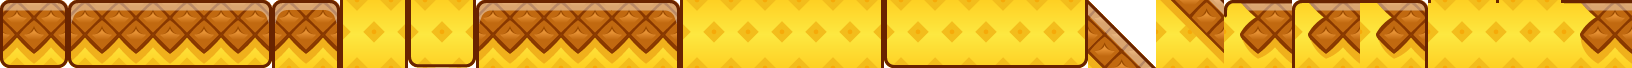
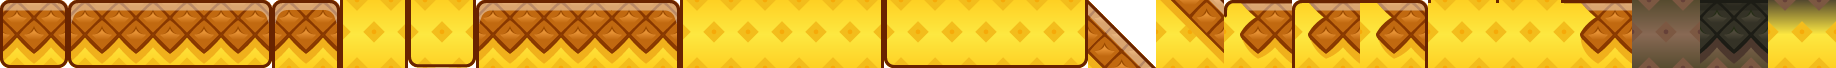
Grotte con gli sprite 42-44 dell'utente; tolto pixel.webp

diff --git a/game.js b/game.js
@@ -40,18 +40,14 @@ const FONDI={};[['clouds','assets/fondi/clouds.webp'],['color_hills','assets/fon
 const SUONI={"magic":'assets/suoni/magic.mp3',"coin":'assets/suoni/coin.mp3',"jump":'assets/suoni/jump.mp3',"hurt":'assets/suoni/hurt.mp3',"disappear":'assets/suoni/disappear.mp3',"bump":'assets/suoni/bump.mp3',"throw":'assets/suoni/throw.mp3',"jump-high":'assets/suoni/jump-high.mp3',"gem":'assets/suoni/gem.mp3'};
 const KIT2=new Image();KIT2.src='assets/kit2.webp'; /* altri pezzi del kit: pulsante, lucchetto, peso, mattoni, blocco che crolla */
 Object.assign(KMAP,{"switch_blue":[2,2,2],"switch_blue_pressed":[102,2,2],"lock_blue":[202,2,2],"weight":[302,2,2],"bricks_brown":[402,2,2],"block_idle":[502,2,2],"block_fall":[602,2,2],"block_rest":[702,2,2]});
-/* l'erba del mondo 1 viene dal Pixel Platformer e la terra della grotta dal kit farm: caselle da 18 */
-const PIXEL=new Image();PIXEL.src='assets/pixel.webp';
+/* nomi delle caselle del terreno: indici nell'atlante del paesaggio */
 const PIX={block:0,horizontal_left:1,horizontal_middle:2,horizontal_right:3,vertical_top:4,vertical_middle:5,vertical_bottom:6,block_top_left:7,block_top:8,block_top_right:9,block_left:10,block_center:11,block_right:12,block_bottom_left:13,block_bottom:14,block_bottom_right:15,cloud_left:1,cloud_middle:2,cloud_right:3};
-const PX_PAV=16,PX_FONDO=17;
-function px(c,i,x,y,w,h,capo,meta){if(!PIXEL.complete)return;const s=c.imageSmoothingEnabled;c.imageSmoothingEnabled=false;
- if(capo){c.save();c.translate(x,y+h);c.scale(1,-1);c.drawImage(PIXEL,i*18,0,18,meta?9:18,0,0,w,meta?h/2:h);c.restore();}else c.drawImage(PIXEL,i*18,0,18,18,x,y,w,h);c.imageSmoothingEnabled=s;}
 /* il terreno del mondo 1 è il paesaggio ananas dell'utente: caselle da 68 nello stesso ordine di PIX, l'ultima è la rampa che scende */
 const ERBANAN=new Image();ERBANAN.src='assets/erbananas.webp'; /* il ciuffo d'ananas dell'utente al posto del cespuglio nel mondo 1 */
 /* in grandezza vera, alla scala delle caselle da 68 del paesaggio: così il bordo scuro è spesso come quello del pavimento */
 function ciuffo(c,x,y,ts){const w=ERBANAN.width*ts/68,h=ERBANAN.height*ts/68;if(w)c.drawImage(ERBANAN,x-w/2,y-h,w,h);}
-const PAES=new Image();PAES.src='assets/paesaggio.webp';const PAES_RAMPA=16,PAES_SOTTO=17,PAES_BORDO={m:18,g:19,v:20},PAES_UNIONE=21,PAES_COLONNA=22,PAES_LATO_COLONNA=23; /* 17: la terra sotto una rampa a scalini, con la buccia della rampa dopo nell'angolo; 18-20: dove il piano finisce a sinistra, ai piedi di un muro più alto (m), con un gradino in giù (g) o sul vuoto (v); a destra si capovolgono, il bordo sul vuoto al contrario; 21: il muro accanto al bordo sul vuoto, dove le due linee si uniscono; 22: sotto una colonna, con il piano che arriva dai due lati; 23: il piano ai lati di quella colonna, senza l'uncino */
-function paes(c,i,x,y,w,h,flip){const s=c.imageSmoothingEnabled;c.imageSmoothingEnabled=false;if(flip){c.save();c.translate(x+w,y);c.scale(-1,1);c.drawImage(PAES,i*68,0,68,68,0,0,w,h);c.restore();}else c.drawImage(PAES,i*68,0,68,68,x,y,w,h);c.imageSmoothingEnabled=s;}
+const PAES=new Image();PAES.src='assets/paesaggio.webp';const PAES_RAMPA=16,PAES_SOTTO=17,PAES_BORDO={m:18,g:19,v:20},PAES_UNIONE=21,PAES_COLONNA=22,PAES_LATO_COLONNA=23,PAES_GROTTA={fondo:24,pav:25,base:26}; /* 17: la terra sotto una rampa a scalini, con la buccia della rampa dopo nell'angolo; 18-20: dove il piano finisce a sinistra, ai piedi di un muro più alto (m), con un gradino in giù (g) o sul vuoto (v); a destra si capovolgono, il bordo sul vuoto al contrario; 21: il muro accanto al bordo sul vuoto, dove le due linee si uniscono; 22: sotto una colonna, con il piano che arriva dai due lati; 23: il piano ai lati di quella colonna, senza l'uncino; 24-26: la grotta, sfondo, pavimento e la casella sotto il pavimento che torna gialla */
+function paes(c,i,x,y,w,h,flip,capo){const s=c.imageSmoothingEnabled;c.imageSmoothingEnabled=false;if(flip||capo){c.save();c.translate(flip?x+w:x,capo?y+h:y);c.scale(flip?-1:1,capo?-1:1);c.drawImage(PAES,i*68,0,68,68,0,0,w,h);c.restore();}else c.drawImage(PAES,i*68,0,68,68,x,y,w,h);c.imageSmoothingEnabled=s;}
 function sp(c,n,x,y,w,h,flip){if(n.startsWith('terrain_sand_')&&PAES.complete){const t=n.slice(13);if(t==='ramp_short_b'){paes(c,PAES_RAMPA,x,y,w,h,flip);return;}if(t in PIX){paes(c,PIX[t],x,y,w,h);return;}}
  const q=KMAP[n],im=q&&q[2]?KIT2:KIT;if(!q||!im.complete)return;if(flip){c.save();c.translate(x+w,y);c.scale(-1,1);c.drawImage(im,q[0],q[1],96,96,0,0,w,h);c.restore();}else c.drawImage(im,q[0],q[1],96,96,x,y,w,h);}
 const ANAN=document.createElement('canvas');ANAN.width=ANAN.height=96;(function(){const c=ANAN.getContext('2d'),o='#2b2b3a';c.lineWidth=6;c.lineJoin='round';c.strokeStyle=o;c.fillStyle='#39b86b';
@@ -520,7 +516,7 @@ function disegna2d(){
  for(const d of M.decor){if(d.x<c0-3||d.x>c1+3)continue;const a=sx(d.x)-ts/2,b=sy(3)-ts/2;if(d.n==='ananas')c.drawImage(ANAN,a,b,ts,ts);else if(d.n==='erbananas')ciuffo(c,sx(d.x+d.dx),sy(2.5),ts);else sp(c,d.n,a,b,ts,ts);}
  if(!M.boss){sp(c,'sign_right',sx(M.start.x+2)-ts/2,sy(3)-ts/2,ts,ts);sp(c,'sign_exit',sx(M.fine-3)-ts/2,sy(3)-ts/2,ts,ts);
  sp(c,'door_open',sx(M.fine+1)-ts*.8,sy(3)-ts*1.1,ts*1.6,ts*1.6);sp(c,'door_open_top',sx(M.fine+1)-ts*.8,sy(4)-ts*1.1,ts*1.6,ts*1.6);}
- for(const f of M.finti||[]){if(f[2]<c0||f[0]>c1)continue;for(let y=f[1];y<=f[3];y++)for(let x=f[0];x<=f[2];x++)if(!pieno(cel(x,y))){const a=sx(x)-ts/2,b=sy(y)-ts/2;px(c,PX_FONDO,a,b,mz,mz);c.fillStyle='rgba(20,10,20,.5)';c.fillRect(a,b,mz,mz);}}
+ for(const f of M.finti||[]){if(f[2]<c0||f[0]>c1)continue;for(let y=f[1];y<=f[3];y++)for(let x=f[0];x<=f[2];x++)if(!pieno(cel(x,y))){const a=sx(x)-ts/2,b=sy(y)-ts/2;paes(c,PAES_GROTTA.fondo,a,b,mz,mz);}}
  for(let y=Math.max(y0,-20);y<=y1;y++)for(let x=c0;x<=c1;x++){const a=sx(x)-ts/2,b=sy(y)-ts/2;
   if(y<=0&&cel(x,0)!=='#'){if(M.boss&&(x<0||x>=M.w))continue;sp(c,m.liquido+(y===0?(lento?'_top':'_top_low'):''),a,b,mz,mz);continue;}
   const t=y<0?'#':cel(x,y);if(t===' ')continue;
@@ -581,7 +577,8 @@ function disegna2d(){
  if(p.bolla>0)bollaSapone(c,sx(p.x),sy(p.y),p.R*ts*(1.75+.06*Math.sin(G.t*9)),Math.min(1,p.bolla/.25),ts);
  if(G.boom){const e=(G.t-G.boom.t)/.55;if(e<1)disegnaEspl(c,sx(G.boom.x),sy(G.boom.y),G.boom.r*ts,e);else G.boom=null;}
  for(const f of M.finti||[]){if(f[2]<c0||f[0]>c1)continue;const dentro=p.x>f[0]-.7&&p.x<f[2]+.7&&p.y>f[1]-.7&&p.y<f[3]+.7;f.a=lerp(f.a===undefined?1:f.a,dentro?.05:1,.15);
-  const g=clamp((1-f.a)/.7,0,1);if(g>.01){c.globalAlpha=g;for(let x=f[0];x<=f[2];x++){if(pieno(cel(x,f[1]-1)))px(c,PX_PAV,sx(x)-ts/2,sy(f[1]-1)-ts/2,mz,mz);if(pieno(cel(x,f[3]+1)))px(c,PX_PAV,sx(x)-ts/2,sy(f[3]+1)-ts/2,mz,mz,true,true);}}
+  const g=clamp((1-f.a)/.7,0,1);if(g>.01){c.globalAlpha=g;/* pavimento con sotto la casella che torna gialla; il soffitto per ora è lo stesso capovolto */
+   const gr=(x,y,i,capo)=>{if(pieno(cel(x,y)))paes(c,i,sx(x)-ts/2,sy(y)-ts/2,mz,mz,false,capo);};for(let x=f[0];x<=f[2];x++){if(pieno(cel(x,f[1]-1))){gr(x,f[1]-1,PAES_GROTTA.pav);gr(x,f[1]-2,PAES_GROTTA.base);}if(pieno(cel(x,f[3]+1))){gr(x,f[3]+1,PAES_GROTTA.pav,true);if(pieno(cel(x,f[3]+3)))gr(x,f[3]+2,PAES_GROTTA.base,true);}}}
   c.globalAlpha=f.a;
   for(let y=f[1];y<=f[3];y++)for(let x=f[0];x<=f[2];x++)if(!pieno(cel(x,y)))sp(c,nomeTile(x,y,k),sx(x)-ts/2,sy(y)-ts/2,mz,mz);c.globalAlpha=1;}
  if(G.comboV&&G.t-G.comboV.t<.9){const e=(G.t-G.comboV.t)/.9,z=ts*(.9+Math.min(1,e*6)*.35+G.comboV.n*.04);c.save();c.globalAlpha=1-e*e;c.font=`400 ${z}px "Bowlby One","Arial Black",sans-serif`;c.textAlign='center';c.lineWidth=z*.16;c.strokeStyle='#2a1a10';c.fillStyle='#f6c445';const tx=sx(p.x),ty=sy(p.y+1.6+e*1.2);c.strokeText('x'+G.comboV.n,tx,ty);c.fillText('x'+G.comboV.n,tx,ty);c.restore();}

diff --git a/CLAUDE.md b/CLAUDE.md
@@ -6,7 +6,7 @@ Gioco per browser pensato per il telefono in orizzontale, pubblicato con GitHub 
 - `index.html`: solo il markup delle schermate (menu, guida, amici e skin, pausa, fine, HUD).
 - `style.css`: lo stile, con i colori come variabili su `:root`.
 - `game.js`: tutta la logica, in un unico script classico chiuso in una funzione e diviso in sezioni `/* ---------- NOME ---------- */`: orientamento, salvataggio, mondi e tappe, kit grafico e sonoro, skin, palla dipinta, audio, stato, comandi, cuori, corsa 2D, boss 2D, la bomba, guida, flusso, menu, ciclo.
-- `assets/`: `kit.webp` (atlante dei blocchi Kenney, coordinate in `KMAP`), `personaggio.webp`, `personaggio2.webp` e `personaggio3.webp` (fogli delle animazioni di Matteo; il terzo è Matteo stanco, con le stesse celle da 200 del secondo), `fumo.webp`, `polvere.webp`, `esplosione.webp`, `pizza.webp`, `kit2.webp` (altri pezzi del kit), `nemico_ananas.webp` (l'ananas arrabbiato dal foglio "Pineapple Tiles" CC0 dell'utente, nemico del mondo 1; degli altri pezzi di quel foglio l'utente non vuole niente, né per il terreno né per le grotte; il terreno ananas di `paesaggio.webp` è un'altra serie, che invece gli va bene), `paesaggio.webp` (terreno del mondo 1: buccia e polpa d'ananas disegnate dall'utente, caselle da 68 nello stesso ordine di `PIX`, poi la rampa (`sprite-20.png`), la terra sotto la rampa (`paesaggio.png`) e i lati del piano: ai piedi di un muro (`sprite-28.png`), gradino in giù (`sprite-29.png`) e bordo sul vuoto (`sprite-30.png`), poi il muro accanto al bordo sul vuoto (`sprite-32.png`) sotto una colonna (`sprite-33.png`) e il piano ai lati della colonna (`sprite-31.png`); i pezzi singoli stanno in `paesaggio/`), `erbananas.webp` (ciuffo d'ananas dell'utente, al posto del cespuglio nei decori del mondo 1 e nel menu, disegnato da `ciuffo()` in grandezza vera, alla scala delle caselle da 68, perché il bordo scuro sia spesso come quello del pavimento. Largo più di 3 caselle, deve stare tutto sul piano: se sporge sul vuoto rientra un po' a sinistra (`d.dx`), e se non ci sta diventa erba; l'originale è `paesaggio/erbananas.png`), `pixel.webp` (caselle da 18: terra del kit Farm Expansion per le grotte), `bomba.webp` (Matteo carico al massimo: 37 fotogrammi da 160 in righe da 10, mappa in `disegnaBomba`), `boss_ananas.webp` (Ananassone: fotogrammi da 192x204 in righe da 8, 32-34 stordito, mappa in `disegnaAnanas` e `disegnaBoss`; gli altri due boss sono ancora disegnati nel codice in `BOSPR`), `fondi/*.webp`, `suoni/*.mp3`.
+- `assets/`: `kit.webp` (atlante dei blocchi Kenney, coordinate in `KMAP`), `personaggio.webp`, `personaggio2.webp` e `personaggio3.webp` (fogli delle animazioni di Matteo; il terzo è Matteo stanco, con le stesse celle da 200 del secondo), `fumo.webp`, `polvere.webp`, `esplosione.webp`, `pizza.webp`, `kit2.webp` (altri pezzi del kit), `nemico_ananas.webp` (l'ananas arrabbiato dal foglio "Pineapple Tiles" CC0 dell'utente, nemico del mondo 1; degli altri pezzi di quel foglio l'utente non vuole niente, né per il terreno né per le grotte; il terreno ananas di `paesaggio.webp` è un'altra serie, che invece gli va bene), `paesaggio.webp` (terreno del mondo 1: buccia e polpa d'ananas disegnate dall'utente, caselle da 68 nello stesso ordine di `PIX`, poi la rampa (`sprite-20.png`), la terra sotto la rampa (`paesaggio.png`) e i lati del piano: ai piedi di un muro (`sprite-28.png`), gradino in giù (`sprite-29.png`) e bordo sul vuoto (`sprite-30.png`), poi il muro accanto al bordo sul vuoto (`sprite-32.png`) sotto una colonna (`sprite-33.png`) e il piano ai lati della colonna (`sprite-31.png`); i pezzi singoli stanno in `paesaggio/`), `erbananas.webp` (ciuffo d'ananas dell'utente, al posto del cespuglio nei decori del mondo 1 e nel menu, disegnato da `ciuffo()` in grandezza vera, alla scala delle caselle da 68, perché il bordo scuro sia spesso come quello del pavimento. Largo più di 3 caselle, deve stare tutto sul piano: se sporge sul vuoto rientra un po' a sinistra (`d.dx`), e se non ci sta diventa erba; l'originale è `paesaggio/erbananas.png`), `bomba.webp` (Matteo carico al massimo: 37 fotogrammi da 160 in righe da 10, mappa in `disegnaBomba`), `boss_ananas.webp` (Ananassone: fotogrammi da 192x204 in righe da 8, 32-34 stordito, mappa in `disegnaAnanas` e `disegnaBoss`; gli altri due boss sono ancora disegnati nel codice in `BOSPR`), `fondi/*.webp`, `suoni/*.mp3`.
 - `tools/build.py`: ricompone tutto in `dist/cicciobomba.html`, un file unico con le risorse dentro, che si apre con un doppio clic. `dist/` è generata ed esclusa da git: non modificarla a mano.
 
 ## Regole
@@ -36,7 +36,7 @@ Gioco per browser pensato per il telefono in orizzontale, pubblicato con GitHub 
   - `x` blocco che crolla: mezzo secondo dopo che ci sali cade, e torna dopo 4 secondi.
   - `y` botola: sembra terra, ma se ti fermi sopra crolla dopo 0,8 secondi. Per ora nel livello 1 non ce ne sono: l'utente non le voleva dove c'erano.
   - `X` muro crepato: si apre solo con l'esplosione.
-  - **Pareti finte** (rettangoli in `FINTI`): si disegnano come terra sopra quello che c'è dietro, si attraversano e sbiadiscono quando Matteo ci entra. Dietro c'è una grotta: sfondo di terra scura; il pavimento è la casella di terra con il bordo in cima, il soffitto la stessa casella capovolta.
+  - **Pareti finte** (rettangoli in `FINTI`): si disegnano come terra sopra quello che c'è dietro, si attraversano e sbiadiscono quando Matteo ci entra. Dietro c'è una grotta, con i pezzi dell'utente in `PAES_GROTTA`: sfondo `sprite-42.png`, pavimento `sprite-43.png` e sotto il pavimento `sprite-44.png`, che torna gialla. Il soffitto per ora è il pavimento capovolto (e il 44 capovolto sopra, solo se sopra c'è altra terra). Mancano ancora i lati e gli angoli della grotta.
 - Valide in tutto il gioco:
   - **Scatto:** quando colpisce il primo nemico elimina tutti quelli nel suo blocco (entro una casella più in là); se è partito slanciato (sopra velocità 8, `p.catena=2`) quelli entro due blocchi. Poi, se lo scatto era lento, Matteo si ferma e rimbalza indietro; se era slanciato va avanti senza fermarsi. `forte` si ricalcola per ogni nemico.
   - **Salto in testa:** cadendo sopra un nemico che cammina (`e`) o vola (`f`) lo uccide e rimbalza. Quelli con le spine (`r`) e i blocchi che sparano (`g`) fanno male anche dall'alto.
